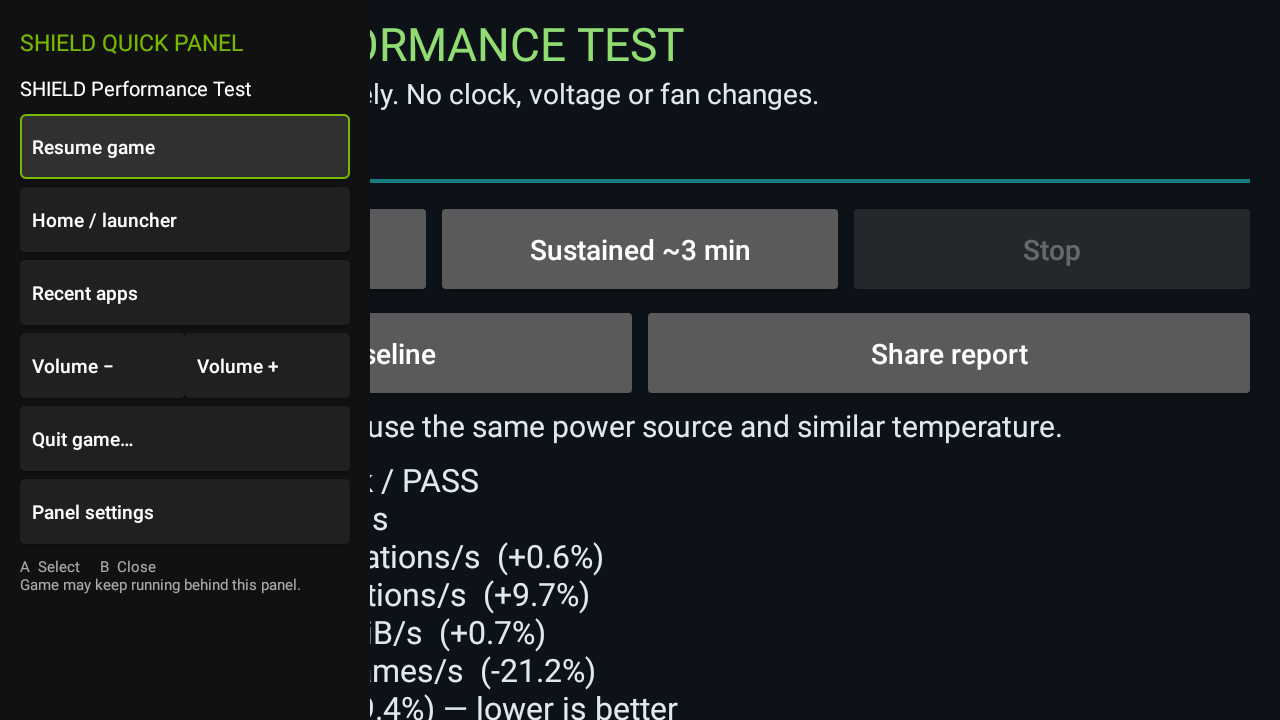
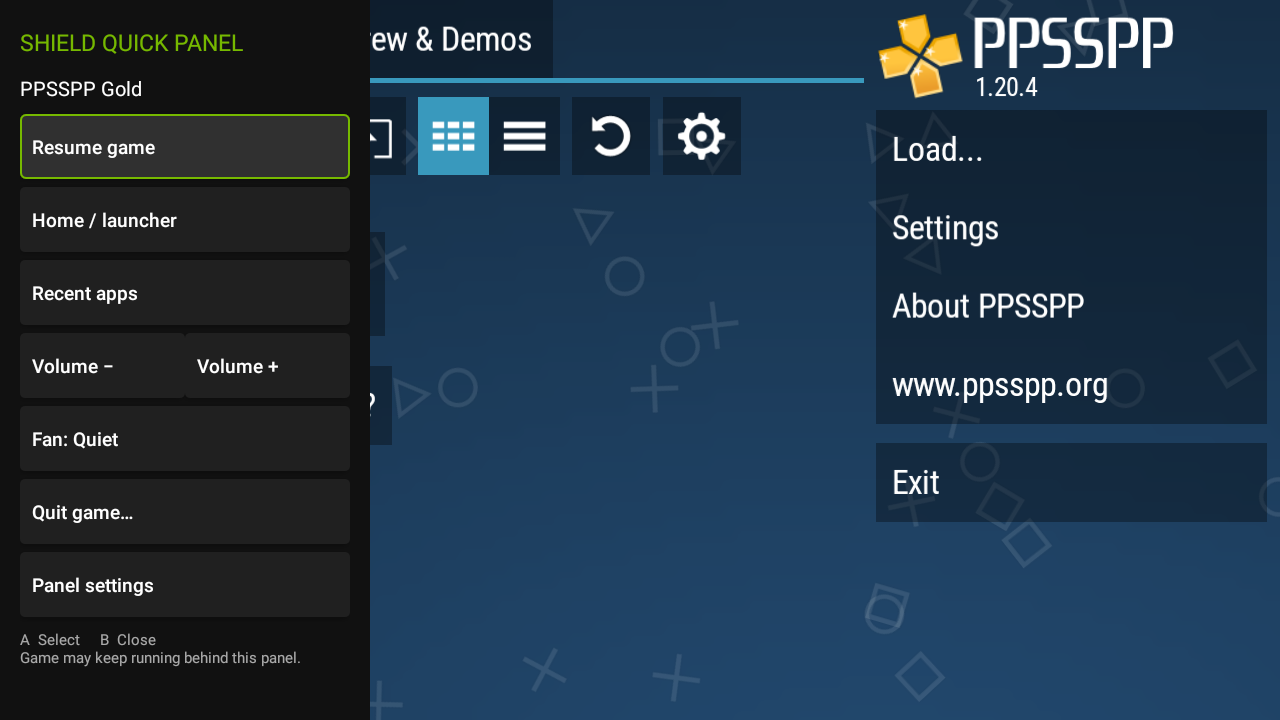
Refresh Quick Panel and fan pictures; clarify controller availability

diff --git a/README.md b/README.md
@@ -30,8 +30,7 @@ The next downloadable package still needs its own final checks. Accessory availa
 | **Built-in gamepad** | Play with the sticks, triggers and physical buttons. | Controls and touch confirmed on the tested installation. |
 | **Console Mode** | Play on an HDMI display, with the Portable screen off; return to Mirror Mode to use both screens. | Restored; HDMI behaviour needs a repeat check for the next package. |
 | **NVIDIA Game Mapper** | Map the built-in controller to touchscreen controls. Enable it, open a game, then hold **Start**. | Original NVIDIA mapper integrated; support depends on the game. |
-| **Wireless SHIELD Controller** | Pair the **2015 P2570** controller and view its battery, connection and device details, or forget it. | Connection restored and previously tested; accessory retest pending for the next package. |
-| **SHIELD remote** | Accessory pairing is available. | Remote compatibility is not yet confirmed. |
+| **Wireless SHIELD Controller** | Settings for the **2015 P2570** controller: battery, connection, device details and pairing. | Pairing is unavailable in the current package; repair and retest are pending. |
 | **MicroSD storage** | Use a card separately, or adopt a suitable card as internal storage. | Storage checked. Adoption erases the card and ties it to this installation. |
 
 These are retained or adapted NVIDIA features inside an **unofficial ROM**, not an official NVIDIA update. The wireless controller uses Wi-Fi Direct; streaming and controller use share the radio.
@@ -65,9 +64,9 @@ Map **Back, Sound and the NVIDIA short press** globally or for one app. Choose a
 
 ### Quick Panel, without leaving your game
 
-![SHIELD Quick Panel open over an app, with Home, recent apps, volume and Quit shortcuts](images/quick-panel-sidebar.png)
+![SHIELD Quick Panel open over an app, with Home, recent apps, volume, fan and Quit shortcuts](images/quick-panel-sidebar.png)
 
-*Example sidebar layout. Available options can vary; the background app is not included.*
+*Quick Panel captured on the SHIELD. The background app is not included.*
 
 Swipe from the left or hold **Back** for shortcuts to Home, recent apps, volume, cooling and Quit. Turn it off for individual apps when you want uninterrupted streaming. It needs your permission to enable its Accessibility service.
 
@@ -87,6 +86,8 @@ Choose a game, turn **Use RothGL** on, and try it. Turn it off to return to norm
 **Show more ES3 games** may make more downloads visible in Google Play; it does not guarantee they will run. RothGL is experimental and **does not provide complete ES3 support**.
 
 ### Cooling that fits how you play
+
+![Fan mode choices: Auto, Quiet, Performance and Maximum cooling](images/fan-modes.png)
 
 Choose **Quiet**, **Performance**, **Maximum cooling**, or **Auto**. Auto adds cooling for the apps you select and returns to Quiet elsewhere and with the screen off. It needs the Quick Panel Accessibility service; the sidebar itself can stay off.
 

diff --git a/docs/SETTINGS.md b/docs/SETTINGS.md
@@ -57,7 +57,7 @@ Button actions:
 
 ## SHIELD accessories
 
-The restored wireless-controller connection targets the **2015 SHIELD Controller (P2570)**. It uses Wi-Fi Direct, not Bluetooth. Do not assume another controller model or a SHIELD remote is supported. The next package still needs its accessory retest.
+The wireless-controller settings target the **2015 SHIELD Controller (P2570)**. It uses Wi-Fi Direct, not Bluetooth. Other controller models are not confirmed. **Pairing is unavailable in the current package; repair and retest are pending.**
 
 - **Pair accessory:** opens accessory pairing.
 - **Accessory name:** opens its details.
@@ -120,13 +120,17 @@ The master switch must still be on. If Back is mapped to Select/Guide, use swipe
 
 ![Quick Panel sidebar open over an app](../images/quick-panel-sidebar.png)
 
-*Example sidebar layout; available options can vary. The background app is not included.*
+*Quick Panel captured on the SHIELD. The background app is not included.*
 
 **Resume:** close the sidebar. **Home:** open the launcher. **Recent apps:** show open apps. **Volume −/+ :** change media volume. **Fan:** cycle cooling modes. **Quit:** close the current app after confirmation. **Settings:** open panel settings.
 
 Opening the panel may not pause the app. Quit can lose unsaved progress.
 
 ## Fan control
+
+![Fan settings with Quiet selected and GPU boost inactive](../images/fan-settings.png)
+
+![Available fan modes](../images/fan-modes.png)
 
 - **Quiet:** quiet cooling and automatic CPU power saving.
 - **Performance:** stronger cooling and all four CPU cores available; uses more battery.
